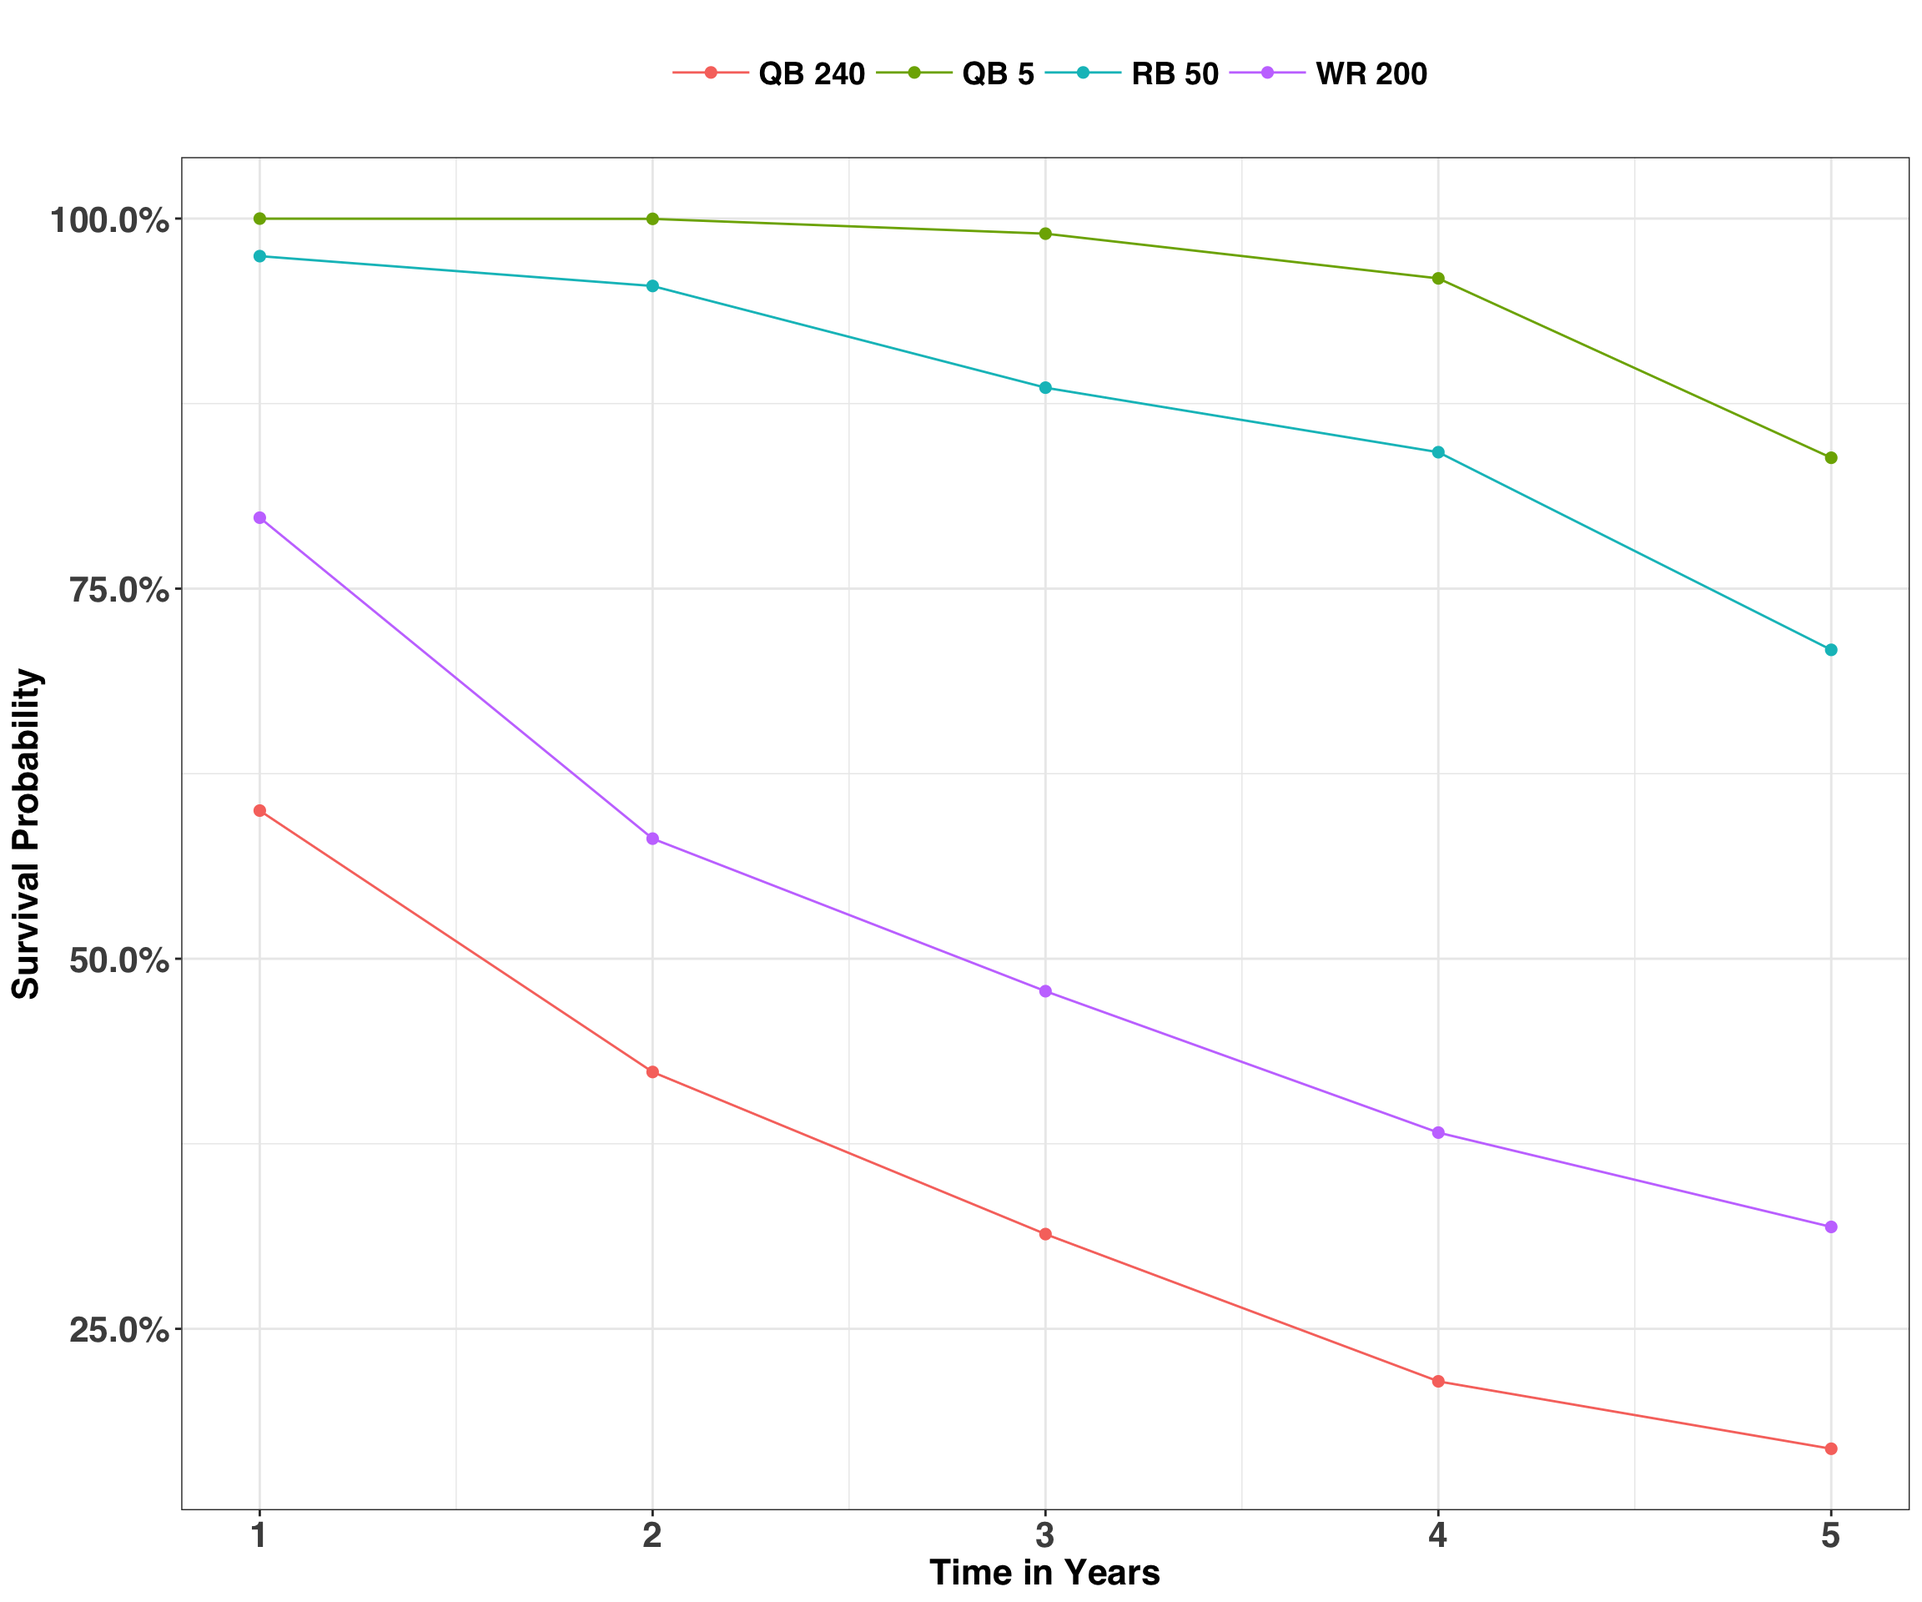
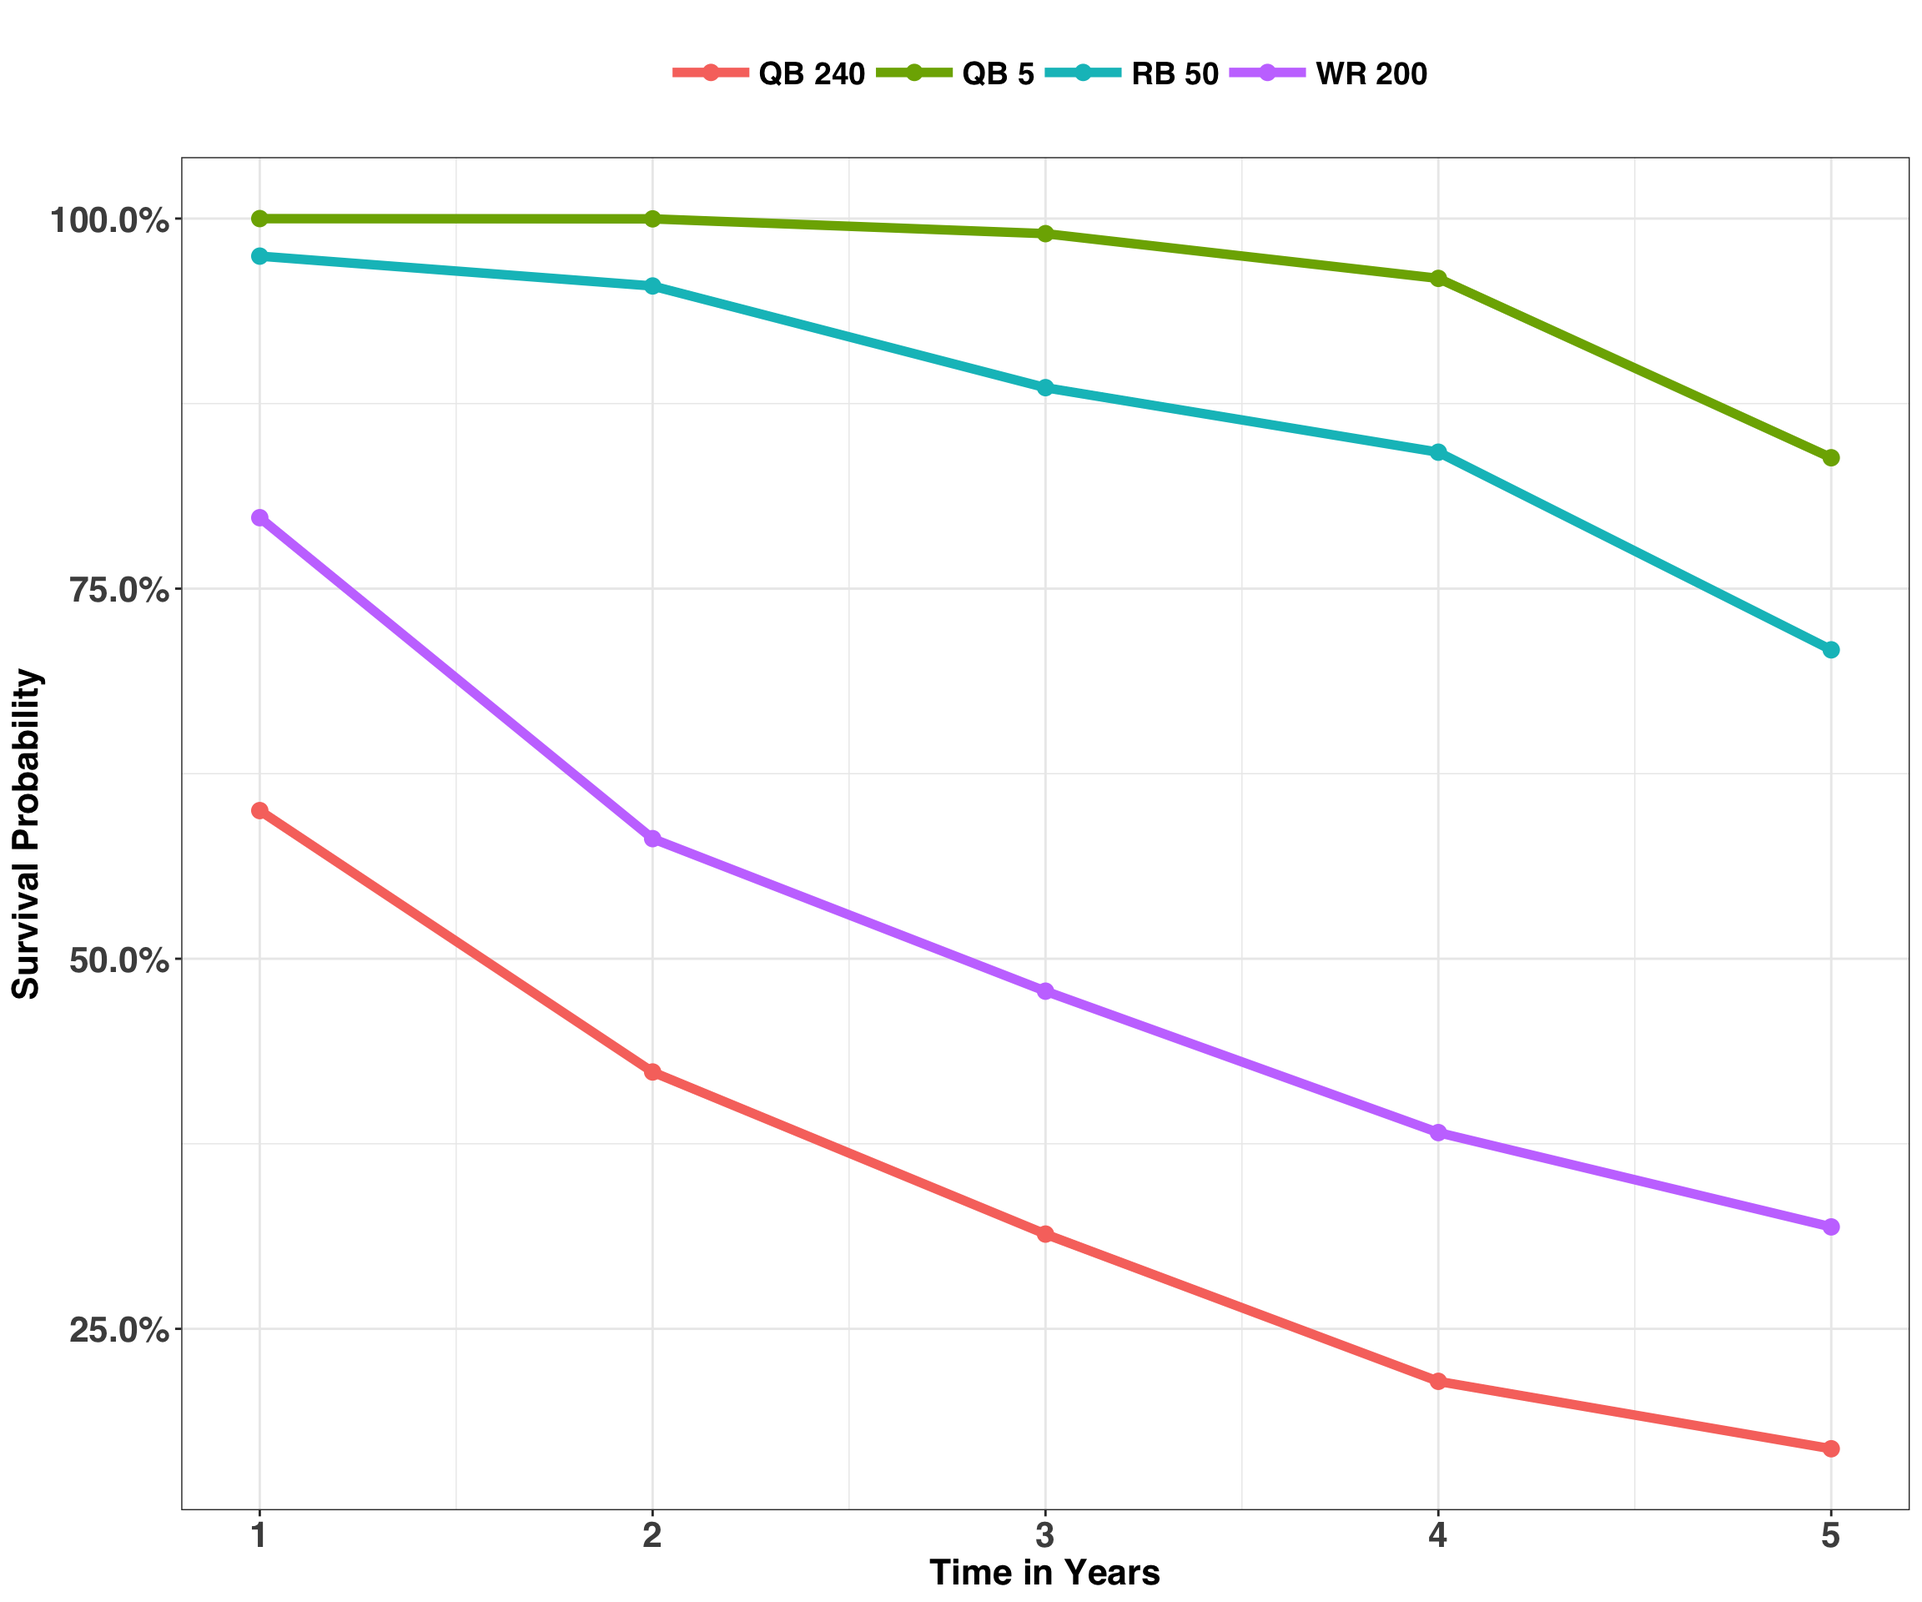
another typeo :(

diff --git a/post/surviving_the_nfl.html b/post/surviving_the_nfl.html
@@ -246,16 +246,16 @@
 <p><img src="surviving_the_nfl_images/nfl_yikes.jpg" width="800px" height="200px" /></p>
 <div id="overview" class="section level3">
 <h3>Overview</h3>
-<p>Survival analysis is used anticipate the time until some <em>event</em>. An event could be cancelling a cable subscription, defaulting on a loan, or any binary outcome. Predicting the occurrence of such events would normally fall under the domain of classification, which assigns a probability between 0 and 1 as to whether an event will occur. However, classification models (e.g., logistic regression) do not account for the fact that, in many cases, the units under study (e.g., people, machines, etc.) are observed for varying periods of time. For example, let’s say we’re interested in studying how long consumers maintain their cable service based on their initial subscription price. Consumers who started their service today will likely remain subscribers tomorrow simply because they have only been active for one day. These consumers are <em>censored</em>, indicating that they have not yet experienced the event. In contrast, nearly all consumers who began their service 15 years ago are probably no longer active today (i.e., <em>uncensored</em>) due to a myriad of factors. Unlike typical classification models, survival models can account for both censored and uncensored data, as well as the influential role of time, during the model building process.</p>
-<p>Let’s make these concepts more palatable with a real-life example. Linking abstract concepts, like survival probabilities and censoring, with concrete concepts, like Touchdowns and Coors Light, makes the leap from theory to application much easier. In this post, we’ll use survival analysis to understand how several factors, including Field Position and Draft Pick, affect the number of years a player remains active in the NFL. Here’s what you’ll know by the end:</p>
-<p>🏈 <strong>The steps required for to format data for survival analysis</strong></p>
-<p>🏈 <strong>Different approaches to modeling survival rates and evaluating prediction accuracy</strong></p>
+<p>Survival analysis is used to anticipate the time until some <em>event</em>. An event could be cancelling a cable subscription, defaulting on a loan, or any binary outcome. Predicting the occurrence of such events would normally fall under the domain of classification, which assigns a probability between 0 and 1 as to whether an event will occur. However, classification models (e.g., logistic regression) do not account for the fact that, in many cases, the units under study (e.g., people, machines, etc.) are observed for varying periods of time. For example, say we’re interested in studying how long consumers maintain their cable service based on their initial subscription price. Consumers who started their service today will likely remain subscribers tomorrow simply because they have only been active for one day. These consumers are <em>censored</em>, indicating that they have not yet experienced the event. In contrast, nearly all consumers who began their service 15 years ago are probably no longer active today (i.e., <em>uncensored</em>) due to a myriad of factors. If the goal is to understand how price affects how long a consume remains a subscriber, then we have to account for this time-survival relationship. Unlike typical classification models, survival models can account for both censored and uncensored data, as well as the influential role of time, during the model building process.</p>
+<p>Let’s make these concepts more palatable with a real-life example. Linking abstract concepts, like survival probabilities and censoring, with concrete concepts, like Touchdowns and Coors Light, makes the leap from theory to application much easier. In this post, we’ll use survival analysis to understand how several factors, including Field Position and Draft Pick, affect the number of years a player remains active in the NFL. Here’s what you’ll learn by the end:</p>
+<p>🏈 <strong>How to format data for survival analysis</strong></p>
+<p>🏈 <strong>Different approaches to modeling survival rates</strong></p>
 <p>🏈 <strong>How to intepret and communicate survival model outputs</strong></p>
 <p>Let’s get started!</p>
 </div>
 <div id="the-data" class="section level3">
 <h3>The Data</h3>
-<p>All data used herein were acquired from <a href="https://www.pro-football-reference.com/">this website</a> and can be downloaded from my github account. If you’re curious about the web-scraping specifics, all code is located in the <a href="#appendix">appendix</a> below. Go ahead and download the data to get started. All the libraries we’ll need are loaded or installed via <code>pacman</code>.</p>
+<p>The data was acquired from <a href="https://www.pro-football-reference.com/">this website</a> and can be downloaded from my github account. If you’re curious about the web-scraping specifics, the code is located in the <a href="#appendix">appendix</a> below. Go ahead and download the data to get started. All the libraries we’ll need can be loaded or installed via <code>pacman</code>.</p>
 <pre class="r"><code>library(pacman)
 pacman::p_load(rvest,
                survival,
@@ -650,7 +650,7 @@ QB
 🏈 <strong>Draft Year</strong> - The year the player was drafted into the NFL<br />
 🏈 <strong>From </strong> - The year the player was drafted into the NFL<br />
 🏈 <strong>To </strong> - The most recent year played in the NFL</p>
-<p>Below we’ll build two additional features that are central to any survival analysis: <strong>Time</strong> and <strong>Status</strong>. Our time variable – <em>yrs_in_nfl</em> – indicates how many seasons the player has participated in at least one regular season game. Status indicates if the player is still playing in the NFL; that is, if they have participated in at least one game during the 2018 regular season. For example, Johnny Manziel played two years for the Cleveland Browns and then left to play in the Canadian Football league at the end of the 2015 season. Thus, his status is <strong>1</strong>, indicating he did not survive until the 2018 season and is no longer active. In contrast, Blake Bortles is still playing in the NFL, so his status is a <strong>0</strong>, indicating that the event in question – retirement – has not yet happened. Let’s create these two features and revisit our 2014 quarterback cohort.</p>
+<p>Below we’ll build two additional features that are central to any survival analysis: <strong>Time</strong> and <strong>Status</strong>. Our time variable – <em>yrs_in_nfl</em> – indicates how many seasons the player has participated in at least one regular season game. Status indicates if the player is still playing in the NFL; that is, if they have participated in at least one game during the 2018 regular season. For example, Johnny Manziel played two years for the Cleveland Browns and then left to play in the Canadian Football league at the end of the 2015 season. Thus, his status is <strong>1</strong>, indicating he did not survive until the 2018 season and is no longer active. In contrast, Blake Bortles is still playing in the NFL, so his status is <strong>0</strong>, indicating that the event in question – retirement – has not yet happened. Let’s create these two features and revisit our 2014 quarterback cohort.</p>
 <pre class="r"><code>input_df = input_df %&gt;% 
   mutate(yrs_in_nfl = (to - from) + 1) %&gt;% 
   mutate(yrs_in_nfl = ifelse(is.na(from) &amp; is.na(to), 0, yrs_in_nfl)) %&gt;% 
@@ -1014,7 +1014,7 @@ QB
 </div>
 <div id="stayin-alive" class="section level3">
 <h3>Stayin’ Alive</h3>
-<p>Let’s start with a simple question: What is the relationship between Draft Round and the number of years played in the NFL? We’ll address this question with a simple yet powerful technique – the <strong>Kaplan Meier Estimator</strong> (KM for short). KM estimates the probability of surviving up to a certain point in time and not experiencing the event at that time. In this case, let’s compare the survival rates for players drafted in the 1st Round relative to those drafted in the 7th Round.Better players are typically drafted earlier on, so we’d expect 1st Rounders to have longer careers than 7th Rounders.</p>
+<p>Let’s start with a simple question: What is the relationship between Draft Round and the number of years played in the NFL? We’ll address this question with a simple yet powerful technique – the <strong>Kaplan Meier Estimator</strong> (KM for short). KM estimates the probability of surviving up to a certain point in time and not experiencing the event at that time. In this case, let’s compare the survival rates for players drafted in the 1st Round relative to those drafted in the 7th Round. Better players are drafted earlier on, so we’d expect 1st Rounders to have longer careers than 7th Rounders.</p>
 <pre class="r"><code>draft_surv = input_df %&gt;% 
   filter(draft_rnd %in% c(1, 7))
 
@@ -1037,7 +1037,7 @@ draft_fit = survfit(Surv(yrs_in_nfl, status) ~ draft_rnd, data = draft_surv)</co
                 )</code></pre>
 <p><img src="/post/surviving_the_nfl_files/figure-html/unnamed-chunk-10-1.png" width="1152" /></p>
 <p>As expected, players drafted in Round 1 have a higher chance of surviving across all time points. The dotted line indicates the median survival time for both groups and can be interpreted as follows: 50% of 1st Round picks are expected to be playing in the NFL after 9 years, while 50% of 7th Round picks will be around after 2 years. Note the p-value associated with the above plot. This is the produced by the <em>logrank test</em>, which determines if there is a difference between our cohorts (Round 1 vs. Round 7) in the probability of retiring at any point in time. Thus, if you happen to be a 7th round pick, I’d suggest enrolling in some Coursera courses in your spare time during the offseason (just in case).</p>
-<p>While KM is a great place to start due to its interpretability, one of its major shortcomings is the ability to handle continuous inputs. For example, Draft Round is categorical, in that it treats all picks within a round as the same. We lose lots of information by representing Draft Pick in this way, because the 1st pick in Round 1 is not the same as the 32nd pick in Round 1. Likewise, The 33rd pick (i.e, the 1st pick of Round 2) is similar to the 32nd pick in Round 1, yet they are treated differently if we model based on Draft Round. Thus, we need a different approach to model both continuous (i.e., Pick Number) and categorical (i.e., Player Position) inputs.</p>
+<p>While KM is a great place to start due to its interpretability, one of its major shortcomings is the ability to handle continuous inputs. For example, Draft Round is categorical, in that it treats all picks within a round as the same. We throw away information by representing Draft Pick categorically, because the 1st pick in Round 1 is not the same as the 32nd pick in Round 1. Likewise, The 33rd pick (i.e, the 1st pick of Round 2) is pretty similar to the 32nd pick in Round 1, yet they are treated differently if we model based on Draft Round. Thus, we need a different approach to model both continuous (i.e., Pick Number) and categorical (i.e., Player Position) inputs.</p>
 </div>
 <div id="cox-proportional-hazard-model" class="section level3">
 <h3>Cox Proportional Hazard Model</h3>
@@ -1045,7 +1045,7 @@ draft_fit = survfit(Surv(yrs_in_nfl, status) ~ draft_rnd, data = draft_surv)</co
 <p>While <em>CPH</em> has been successfully applied in a variety of domains, it also has some limitations – namely the assumption of <em>proportionality of hazards</em>. This means that the hazard function for different levels of an input are proportional across all time values. In Football-speak, this means that if RBs have twice the risk of retiring compared to QBs after two seasons, then they should also have twice the risk of retiring after four seasons, six season, ten seasons, etc.</p>
 <p>A simple way to verify this assumption is to plot the survival curves for a factor and then look at whether they remain parallel across time. If they cross over, there’s a good chance that this assumption has been violated. Let’s check below for our Position variable, which models the survival rate of QBs, RB, and WRs.</p>
 <p><img src="/post/surviving_the_nfl_files/figure-html/unnamed-chunk-11-1.png" width="1152" /></p>
-<p>It’s apparent that risk is not proportional across time. Near the beginning of their career (i.e., 0 - 2 years), QBs have a lower survival rate relative to RB/WRs. However, long-term survival (&gt; 5 years) is higher amongst QBs. In fact, there are not BRs in our sample that have played beyond 14 years (Frank Gore has played 14), while ~12% of QBs have played beyond this time frame, such as Tom Brady, Drew Brees, or Peyton Manning. This makes intuitive sense – if you are a good enough quarterback to play in the NFL for a few years, you’ll likely stick around for a while, assuming you don’t get injured. However, even the best RBs/WRs take a beating across their careers, which shortens their overall NFL lifespan. It is also the reason why RBs/WRs remain in the NFL at higher rates relative to QBs for the short-term (&lt; 4 years), as replacements for these positions are the norm within the regular season due to their high injury rate.</p>
+<p>It’s apparent that risk is not proportional across time. Near the beginning of their career (i.e., 0 - 2 years), QBs have a lower survival rate relative to RB/WRs. However, long-term survival (&gt; 5 years) is higher amongst QBs. In fact, there are no BRs in our sample that have played beyond 14 years (Frank Gore has played exactly 14 this year), while ~12% of QBs have played beyond this time frame, such as Tom Brady, Drew Brees, or Peyton Manning. This makes intuitive sense – if you are a good enough quarterback to play in the NFL for a few years, you’ll likely stick around for a while, assuming you don’t get injured. However, even the best RBs/WRs take a beating across their careers, which shortens their overall NFL lifespan. It is also the reason why RBs/WRs remain in the NFL at higher rates relative to QBs for the short-term (&lt; 4 years), as replacements for these positions are the norm due to their high injury rate.</p>
 <p>While the comparison of survival curves (and whether they cross) is a decent heuristic, we can use a more formal approach – the <em>Schoenfeld Residuals Test</em> – to confirm our initial observation. This test determines if there is independence between the scaled residuals (actual - observed) and time. If the slope is different from zero, then the proportional hazard assumption is not satisfied (i.e., relative risk is not constant over time).</p>
 <p><img src="/post/surviving_the_nfl_files/figure-html/unnamed-chunk-12-1.png" width="1152" /></p>
 <p>A trend is present in the residuals of each of our predictors, which means the proportional hazard assumption does not hold up. Let’s focus on the top panel, labeled <strong>Beta(t) for positionRB</strong> to unpack what this plot reveals. The model’s reference category is QBs, so we are comparing the hazard rate of RBs relative to QBs over time. Note how the trend line is below zero for lower values of Time and then gradually trends upward. This means that survival is dependent upon time, and in this case the hazard ratio is increasing over time for RBs relative to QBs – an observation that we made in the previous survival plot.</p>
@@ -1136,8 +1136,8 @@ predicted_surv = predict(rf_future, data = new_players)</code></pre>
          surv_prob = value) %&gt;% 
   filter(year &lt;= 5) %&gt;% 
   ggplot(aes(x = year, y = surv_prob, color = player)) + 
-  geom_point(size = 2) + 
-  geom_line() + 
+  geom_point(size = 3) + 
+  geom_line(size = 2) + 
   scale_x_continuous(breaks = 1:5) + 
   scale_y_continuous(labels = scales::percent) + 
   theme_bw() + 
